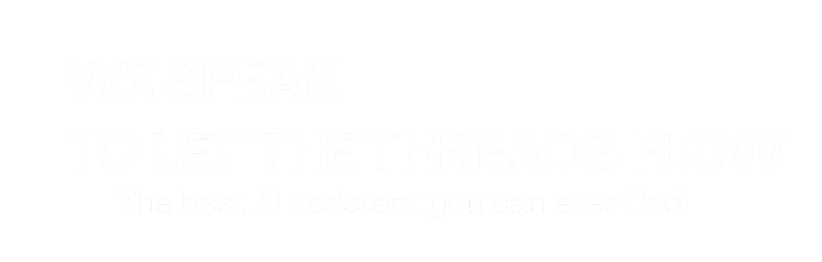
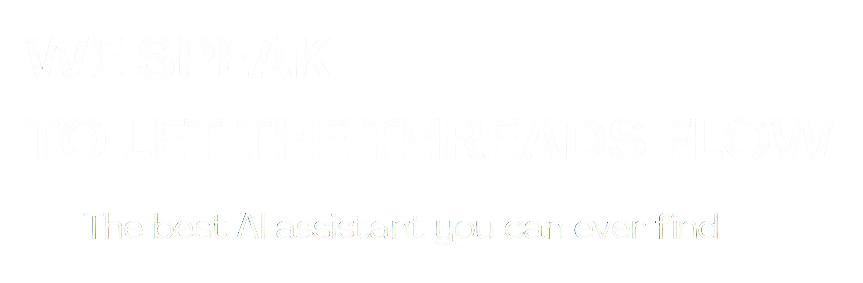
6

diff --git a/contact.html b/contact.html
@@ -21,7 +21,7 @@
         /* header CSS */
         .header{
             width: 100%;
-            position: fixed;
+            position: relative;
             margin-top: 0;
             top: 0;
             z-index: 9999;
@@ -81,6 +81,7 @@
             cursor: pointer;
             font-size: 18px;
             align-items: center;
+            font-family: Arial, Helvetica, sans-serif;
         }
 
         
@@ -141,7 +142,7 @@
         .contact-poster{
             position: relative;
             z-index: 1;
-            margin-top: 25vh;
+            margin-top: 2vh;
             /* margin-left: 200px; */
         }
 
@@ -150,6 +151,7 @@
             font-family: Arial, Helvetica, sans-serif;
             color: #333333;
             margin: 0;
+            letter-spacing: 5px;
         }
 
         .contact-text p{
@@ -158,6 +160,7 @@
             margin: "8px 0 0"
         }
 
+
         .questionnaire-form{
             display: flex;
             flex-direction: column;
@@ -165,7 +168,7 @@
             border-radius: 4px;
             height: auto;
             width: 100%;
-            padding: 64px 24px;
+            padding: 64px 24px 64px;
         }
 
         .form-warn{
@@ -177,6 +180,7 @@
 
         .form-warn span{
             color: rgba(255, 0, 0, 0.9);
+            font-family: Arial, Helvetica, sans-serif;
         }
 
         #contact-us-form{
@@ -196,6 +200,10 @@
 
         form > * > *{
             box-sizing: border-box;
+        }
+
+        form div label{
+            font-family: Arial, Helvetica, sans-serif;
         }
 
         form select {
@@ -239,15 +247,17 @@
             background-color: #5167b9;
             cursor: pointer;
             border: none;
+            padding: 10px 15px;
+            font-family: Arial, Helvetica, sans-serif;
 
         }
 
         .submit-text{
             position: relative;
             display: block;
-            padding: 13px 12px 12px;
+            padding: 0 10px;
             color: #fff;
-            font-size: 16px;
+            font-size: 18px;
             font-weight: 600;
             line-height: 1;
             z-index: 2;
@@ -303,7 +313,7 @@
                     <div class="formItem1">
                         <label name="" id="question-one"><strong>Consult Type</strong></label>
                         <select id="question-one-answers">
-                            <option value="not-choose" class="not-choose" name="consult-type[]" >--Select one of the below</option>
+                            <option value="not-choose" class="not-choose" name="consult-type[]" style="color: rgba(118, 118, 118, 0.9)" disabled selected hidden>--Select one of the below</option>
                             <option value="about" name="consult-type[]">About Us</option>
                             <option value="pricing" name="consult-type[]">Pricing</option>
                             <option value="Other" name="consult-type[]">Other</option>
@@ -316,12 +326,12 @@
                     </div>
 
                     <div class="formItem3">
-                        <label for="" id="question-three"><strong>Your Email</strong></label>
+                        <label id="question-three"><strong>Your Email</strong></label>
                         <input type="text" placeholder="e.g. WeFlow@gmail.com">
                     </div>
 
                     <div class="formItem4">
-                        <label for="" id="question-four">What's On Your Mind
+                        <label id="question-four"><strong>What's On Your Mind?</strong>
                         </label>
                         <textarea name="" id=""></textarea>
                     </div>
@@ -333,6 +343,10 @@
             </div>
         </div>
     </div>
+
+    <footer style="display: flex; background-color: black; justify-content: center; margin: 32px 0 0">
+        <span style="color: white; font-size: 20px; margin: 16px 0 16px; font-family:Arial, Helvetica, sans-serif;"> &copy; 2025 Weflow, All Rights Reserved</span>
+    </footer>
     
 
     
